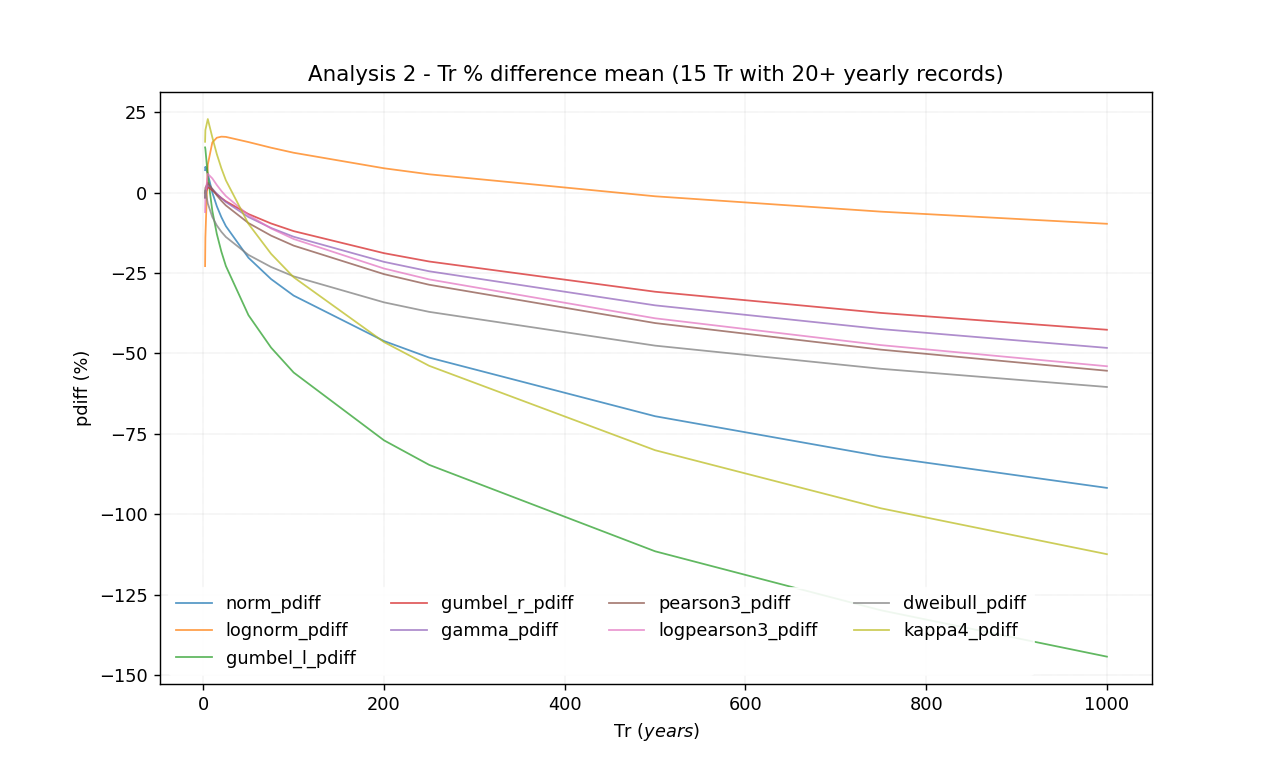
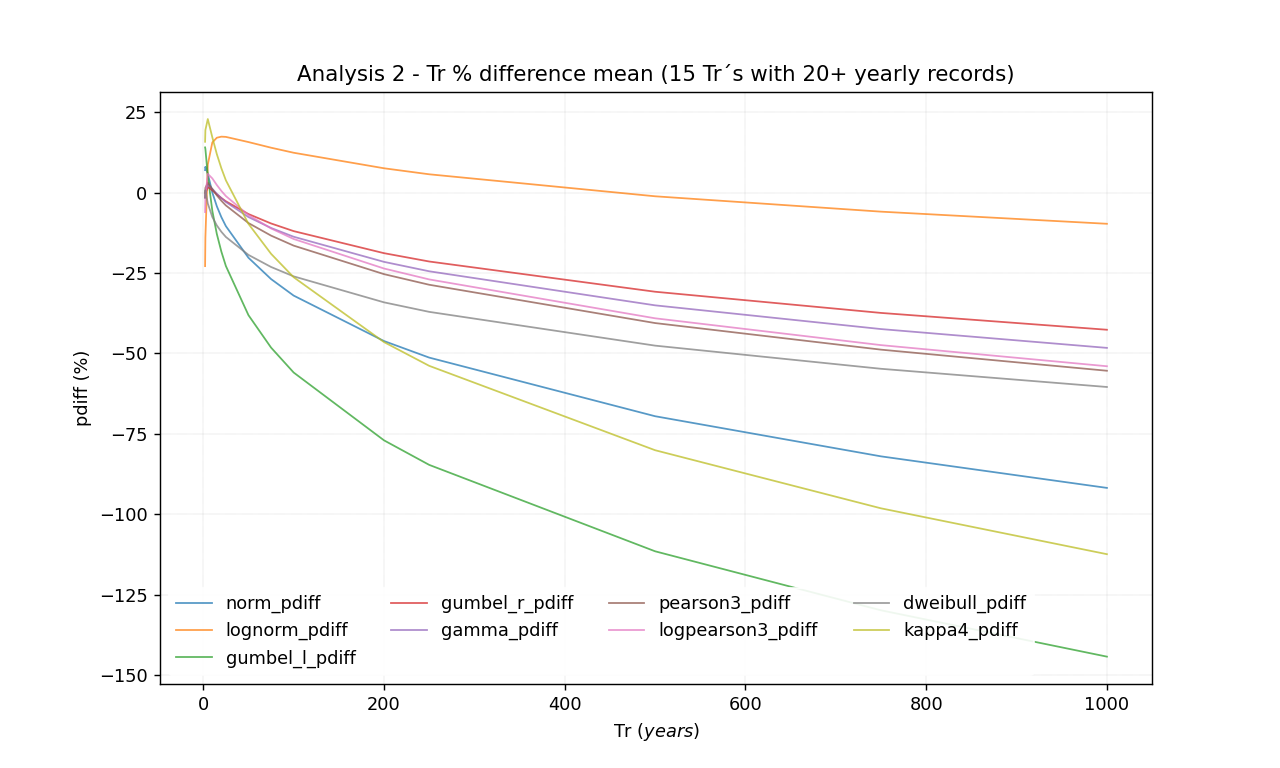
General update.

Changed region(s): [[0.2188, 0.0625, 0.7812, 0.125]]

diff --git a/tool/PMP/paper.py b/tool/PMP/paper.py
@@ -370,7 +370,7 @@ extremepdiff_analysis = extremepdiff_analysis.reset_index()
 extremepdiff_analysis.index.name = 'id'
 extremepdiff_analysis = extremepdiff_analysis.round(2)
 extremepdiff_analysis['n'] = round(extremepdiff_analysis['n'], 0)
-funcs.print_log(file_log, f'\n\n\n#### Analysis 2 - Tr % difference mean ({len(extremepdiff_analysis)} Tr with {minimum_sample_pdiff}+ yearly records)\n\n{extremepdiff_analysis.to_markdown()}\n', center_div=False, on_screen = print_on_screen)
+funcs.print_log(file_log, f'\n\n\n#### Analysis 2 - Tr % difference mean ({len(extremepdiff_analysis)} Tr´s with {minimum_sample_pdiff}+ yearly records)\n\n{extremepdiff_analysis.to_markdown()}\n', center_div=False, on_screen = print_on_screen)
 extremepdiff_analysis = extremepdiff_analysis.drop(columns=['n'])
 regular_hydrology_pdf_pdiff.remove('n')
 if create_plot:
@@ -378,7 +378,7 @@ if create_plot:
     figure(figsize=(10, 6))
     for i in regular_hydrology_pdf_pdiff:
         plt.plot(extremepdiff_analysis.tr, extremepdiff_analysis[i], lw=1, marker='o', markersize=0, alpha=0.75, label=f'{i}')
-    plt.title(f'Analysis 2 - Tr % difference mean ({len(extremepdiff_analysis)} Tr with {minimum_sample_pdiff}+ yearly records)')
+    plt.title(f'Analysis 2 - Tr % difference mean ({len(extremepdiff_analysis)} Tr´s with {minimum_sample_pdiff}+ yearly records)')
     plt.xlabel('Tr ($years$)')
     plt.ylabel('pdiff (%)')
     plt.legend(loc='best', frameon=True, edgecolor='white', framealpha=0.9, ncol=4, facecolor='white')

diff --git a/tool/PMP/dataset/pmax24h_out/paper/Readme.md b/tool/PMP/dataset/pmax24h_out/paper/Readme.md
@@ -1517,7 +1517,7 @@ The extreme value porcentage difference is evaluated as $pdiff = 1 - (ETrBf / ET
 |    7 |  24035360 | laplace_asymmetric    |  20 |        -9.21 |           -3.37 |           -21.91 |             1.68 |          2.55 |             4.48 |                3.93 |            -5.14 |          15.81 |
 
 
-#### Analysis 2 - Tr % difference mean (15 Tr with 20+ yearly records)
+#### Analysis 2 - Tr % difference mean (15 Tr´s with 20+ yearly records)
 
 |   id |      tr |   n |   norm_pdiff |   lognorm_pdiff |   gumbel_l_pdiff |   gumbel_r_pdiff |   gamma_pdiff |   pearson3_pdiff |   logpearson3_pdiff |   dweibull_pdiff |   kappa4_pdiff |
 |-----:|--------:|----:|-------------:|----------------:|-----------------:|-----------------:|--------------:|-----------------:|--------------------:|-----------------:|---------------:|
